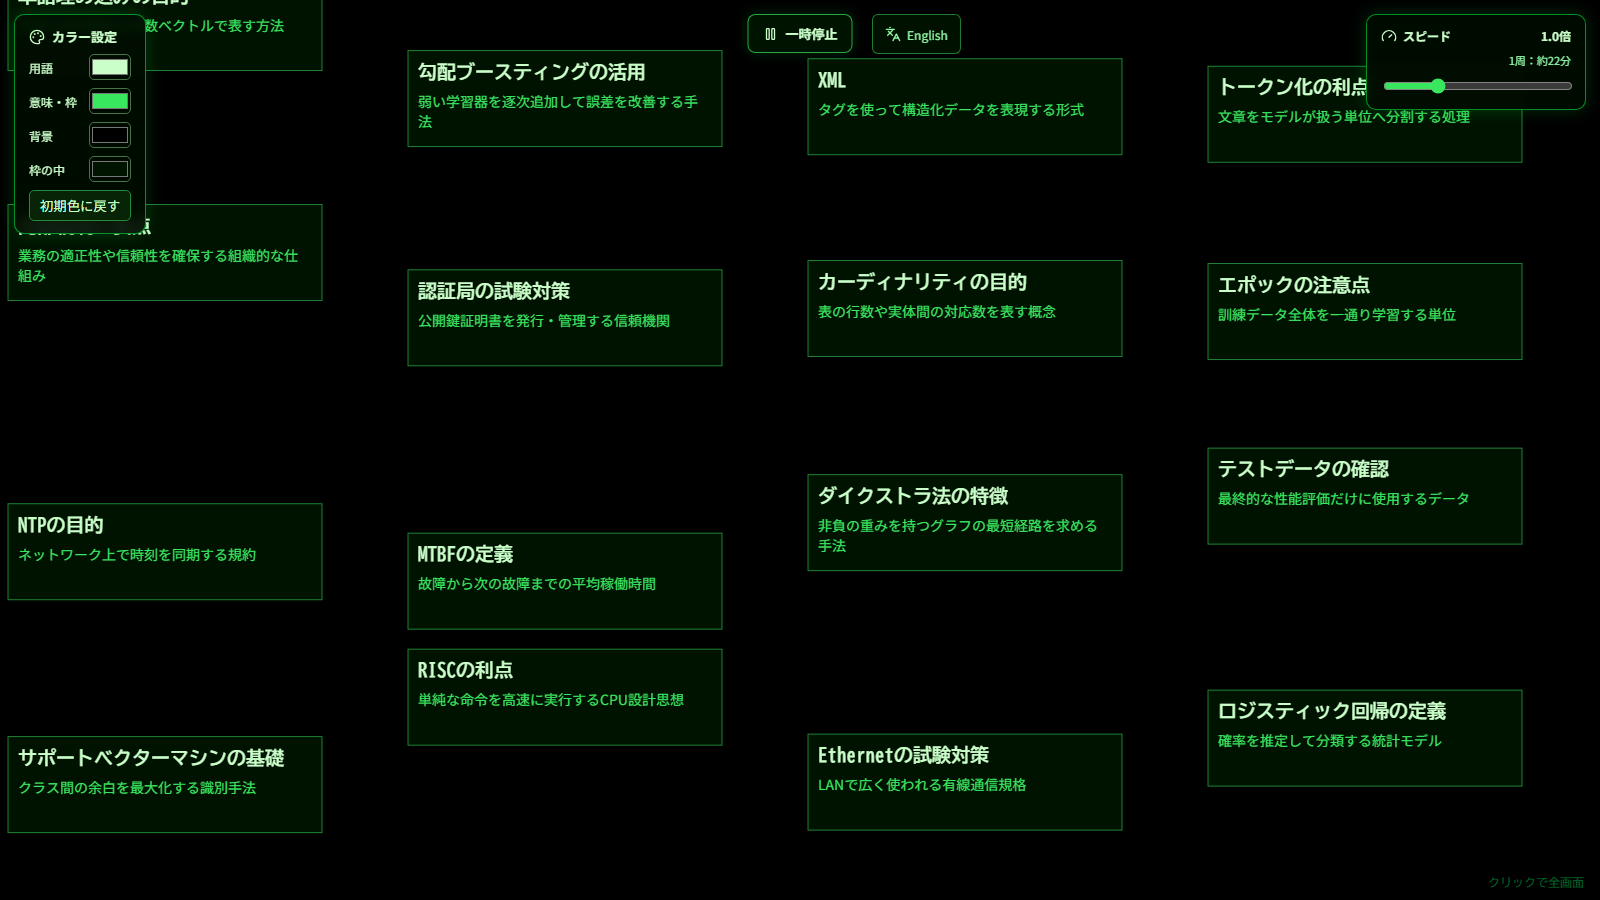
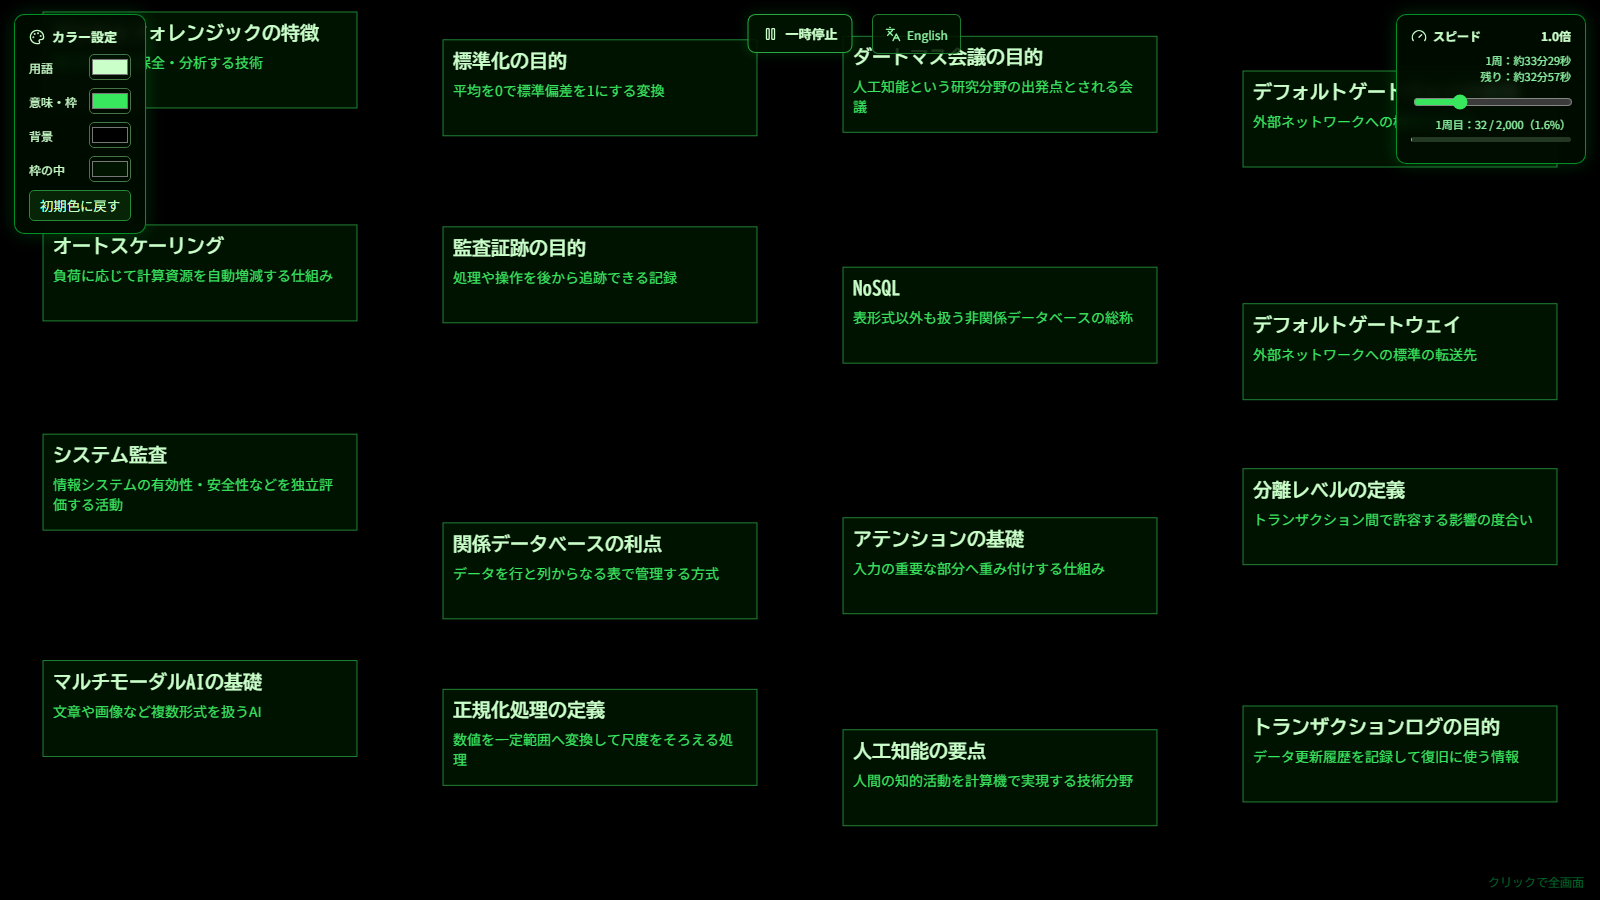
Calculate cycle time from viewport and lane count

diff --git a/index_en.html b/index_en.html
@@ -272,7 +272,10 @@
     <button class="pause-button" id="pauseButton" type="button"><svg class="lucide" viewBox="0 0 24 24" aria-hidden="true"><rect x="14" y="4" width="4" height="16" rx="1"/><rect x="6" y="4" width="4" height="16" rx="1"/></svg><span id="pauseLabel">Pause</span></button>
     <div class="speed-panel" id="speedPanel">
       <label for="speedControl"><span><svg class="lucide" viewBox="0 0 24 24" aria-hidden="true"><path d="m12 14 4-4"/><path d="M3.34 19a10 10 0 1 1 17.32 0"/></svg>Speed</span><span id="speedValue">1.0x</span></label>
-      <div class="cycle-time" id="cycleTime">One cycle: about 22 min</div>
+      <div class="cycle-time">
+        <div id="cycleTime">One cycle: calculating</div>
+        <div id="remainingTime">Remaining: calculating</div>
+      </div>
       <input id="speedControl" type="range" min="0.25" max="3" step="0.25" value="1" />
       <div class="cycle-progress" aria-live="polite">
         <div class="progress-label" id="progressLabel">Progress 0 / 2,000 (0.0%)</div>
@@ -304,6 +307,7 @@
       const laneWidth = 340;
       const cardHeight = 96;
       const cardsPerLane = 4;
+      const frameIntervalMs = 30;
       let lanes = [];
       let isPaused = false;
       let speedMultiplier = 1;
@@ -312,12 +316,55 @@
       let cycleNumber = 0;
       let cycleIssued = 0;
 
+      function formatDuration(totalSeconds) {
+        const roundedSeconds = Math.max(0, Math.round(totalSeconds));
+        const hours = Math.floor(roundedSeconds / 3600);
+        const minutes = Math.floor((roundedSeconds % 3600) / 60);
+        const seconds = roundedSeconds % 60;
+        if (hours > 0) {
+          return minutes > 0
+            ? `about ${hours} hr ${minutes} min`
+            : `about ${hours} hr`;
+        }
+        if (minutes > 0) {
+          return seconds > 0
+            ? `about ${minutes} min ${seconds} sec`
+            : `about ${minutes} min`;
+        }
+        return `about ${seconds} sec`;
+      }
+
+      function getItemsPerSecond() {
+        const laneCount = Math.max(1, Math.floor(canvas.width / laneWidth));
+        const spacing = Math.max(cardHeight + 28, canvas.height / cardsPerLane);
+        let totalLaneSpeed = 0;
+        for (let index = 0; index < laneCount; index++) {
+          totalLaneSpeed += 1.5 + (index % 3) * 0.24;
+        }
+        return (
+          (totalLaneSpeed * speedMultiplier) /
+          (spacing * (frameIntervalMs / 1000))
+        );
+      }
+
+      function updateTiming() {
+        const itemsPerSecond = getItemsPerSecond();
+        const cycleSeconds = allTerms.length / itemsPerSecond;
+        const remainingItems = Math.max(0, allTerms.length - cycleIssued);
+        const remainingSeconds = remainingItems / itemsPerSecond;
+        document.getElementById("cycleTime").textContent =
+          `One cycle: ${formatDuration(cycleSeconds)}`;
+        document.getElementById("remainingTime").textContent =
+          `Remaining: ${formatDuration(remainingSeconds)}`;
+      }
+
       function updateProgress() {
         const ratio = cycleIssued / allTerms.length;
         const percent = (ratio * 100).toFixed(1);
         document.getElementById("progressLabel").textContent =
           `Cycle ${cycleNumber}: ${cycleIssued.toLocaleString("en-US")} / ${allTerms.length.toLocaleString("en-US")} (${percent}%)`;
         document.getElementById("progressBar").style.width = `${ratio * 100}%`;
+        updateTiming();
       }
 
       function nextTerm() {
@@ -451,7 +498,8 @@
         }
         ctx.restore();
       }
-      setInterval(draw, 30);
+      draw();
+      setInterval(draw, frameIntervalMs);
 
       const colorControls = {
         word: document.getElementById("wordColor"),
@@ -485,26 +533,10 @@
 
       const speedControl = document.getElementById("speedControl");
       const speedValue = document.getElementById("speedValue");
-      const cycleTime = document.getElementById("cycleTime");
-      function formatCycleTime(multiplier) {
-        const totalMinutes = 22 / multiplier;
-        if (totalMinutes >= 60) {
-          const hours = Math.floor(totalMinutes / 60);
-          const minutes = Math.round(totalMinutes % 60);
-          return minutes === 0
-            ? `about ${hours} hr`
-            : `about ${hours} hr ${minutes} min`;
-        }
-        const minutes = Math.floor(totalMinutes);
-        const seconds = Math.round((totalMinutes - minutes) * 60);
-        return seconds === 0
-          ? `about ${minutes} min`
-          : `about ${minutes} min ${seconds} sec`;
-      }
       speedControl.addEventListener("input", () => {
         speedMultiplier = Number(speedControl.value);
         speedValue.textContent = `${speedMultiplier.toFixed(2).replace(/0$/, "")}x`;
-        cycleTime.textContent = `One cycle: ${formatCycleTime(speedMultiplier)}`;
+        updateTiming();
       });
 
       document.addEventListener("click", (event) => {

diff --git a/index.html b/index.html
@@ -272,7 +272,10 @@
     <button class="pause-button" id="pauseButton" type="button"><svg class="lucide" viewBox="0 0 24 24" aria-hidden="true"><rect x="14" y="4" width="4" height="16" rx="1"/><rect x="6" y="4" width="4" height="16" rx="1"/></svg><span id="pauseLabel">一時停止</span></button>
     <div class="speed-panel" id="speedPanel">
       <label for="speedControl"><span><svg class="lucide" viewBox="0 0 24 24" aria-hidden="true"><path d="m12 14 4-4"/><path d="M3.34 19a10 10 0 1 1 17.32 0"/></svg>スピード</span><span id="speedValue">1.0倍</span></label>
-      <div class="cycle-time" id="cycleTime">1周：約22分</div>
+      <div class="cycle-time">
+        <div id="cycleTime">1周：計算中</div>
+        <div id="remainingTime">残り：計算中</div>
+      </div>
       <input id="speedControl" type="range" min="0.25" max="3" step="0.25" value="1" />
       <div class="cycle-progress" aria-live="polite">
         <div class="progress-label" id="progressLabel">進捗 0 / 2,000（0.0%）</div>
@@ -382,6 +385,7 @@
       const laneWidth = 340;
       const cardHeight = 96;
       const cardsPerLane = 4;
+      const frameIntervalMs = 30;
       let lanes = [];
       let isPaused = false;
       let speedMultiplier = 1;
@@ -390,12 +394,51 @@
       let cycleNumber = 0;
       let cycleIssued = 0;
 
+      function formatDuration(totalSeconds) {
+        const roundedSeconds = Math.max(0, Math.round(totalSeconds));
+        const hours = Math.floor(roundedSeconds / 3600);
+        const minutes = Math.floor((roundedSeconds % 3600) / 60);
+        const seconds = roundedSeconds % 60;
+        if (hours > 0) {
+          return minutes > 0 ? `約${hours}時間${minutes}分` : `約${hours}時間`;
+        }
+        if (minutes > 0) {
+          return seconds > 0 ? `約${minutes}分${seconds}秒` : `約${minutes}分`;
+        }
+        return `約${seconds}秒`;
+      }
+
+      function getItemsPerSecond() {
+        const laneCount = Math.max(1, Math.floor(canvas.width / laneWidth));
+        const spacing = Math.max(cardHeight + 28, canvas.height / cardsPerLane);
+        let totalLaneSpeed = 0;
+        for (let index = 0; index < laneCount; index++) {
+          totalLaneSpeed += 1.5 + (index % 3) * 0.24;
+        }
+        return (
+          (totalLaneSpeed * speedMultiplier) /
+          (spacing * (frameIntervalMs / 1000))
+        );
+      }
+
+      function updateTiming() {
+        const itemsPerSecond = getItemsPerSecond();
+        const cycleSeconds = allTerms.length / itemsPerSecond;
+        const remainingItems = Math.max(0, allTerms.length - cycleIssued);
+        const remainingSeconds = remainingItems / itemsPerSecond;
+        document.getElementById("cycleTime").textContent =
+          `1周：${formatDuration(cycleSeconds)}`;
+        document.getElementById("remainingTime").textContent =
+          `残り：${formatDuration(remainingSeconds)}`;
+      }
+
       function updateProgress() {
         const ratio = cycleIssued / allTerms.length;
         const percent = (ratio * 100).toFixed(1);
         document.getElementById("progressLabel").textContent =
           `${cycleNumber}周目：${cycleIssued.toLocaleString("ja-JP")} / ${allTerms.length.toLocaleString("ja-JP")}（${percent}%）`;
         document.getElementById("progressBar").style.width = `${ratio * 100}%`;
+        updateTiming();
       }
 
       function nextTerm() {
@@ -516,7 +559,8 @@
         }
         ctx.restore();
       }
-      setInterval(draw, 30);
+      draw();
+      setInterval(draw, frameIntervalMs);
 
       const colorControls = {
         word: document.getElementById("wordColor"),
@@ -550,22 +594,10 @@
 
       const speedControl = document.getElementById("speedControl");
       const speedValue = document.getElementById("speedValue");
-      const cycleTime = document.getElementById("cycleTime");
-      function formatCycleTime(multiplier) {
-        const totalMinutes = 22 / multiplier;
-        if (totalMinutes >= 60) {
-          const hours = Math.floor(totalMinutes / 60);
-          const minutes = Math.round(totalMinutes % 60);
-          return minutes === 0 ? `約${hours}時間` : `約${hours}時間${minutes}分`;
-        }
-        const minutes = Math.floor(totalMinutes);
-        const seconds = Math.round((totalMinutes - minutes) * 60);
-        return seconds === 0 ? `約${minutes}分` : `約${minutes}分${seconds}秒`;
-      }
       speedControl.addEventListener("input", () => {
         speedMultiplier = Number(speedControl.value);
         speedValue.textContent = `${speedMultiplier.toFixed(2).replace(/0$/, "")}倍`;
-        cycleTime.textContent = `1周：${formatCycleTime(speedMultiplier)}`;
+        updateTiming();
       });
 
       document.addEventListener("click", (event) => {

diff --git a/USER_GUIDE_EN.md b/USER_GUIDE_EN.md
@@ -6,7 +6,7 @@ IT & AI Learning is a browser-based app for reviewing concepts from Japan's Appl
 
 ![IT & AI Learning main screen](docs/images/matrix-learning-overview-en.png)
 
-> **Items do not repeat within a cycle.** The app displays each of the 2,000 study items once before starting the next cycle. At `1.0×`, one complete cycle takes approximately 22 minutes.
+> **Items do not repeat within a cycle.** The app displays each of the 2,000 study items once before starting the next cycle. Cycle and remaining time are calculated from viewport size, lane count, card spacing, and speed.
 
 ## Contents
 
@@ -67,7 +67,9 @@ Click a color swatch and choose a color. Select **Restore Defaults** to return t
 - Maximum: `3.0×`
 - Step: `0.25×`
 
-The selected multiplier appears above the slider and takes effect immediately. The panel also estimates the time needed to show all 2,000 items at the selected speed. For example, it shows approximately 22 minutes at `1.0×` and approximately 11 minutes at `2.0×`.
+The selected multiplier appears above the slider and takes effect immediately. The panel displays both the estimated duration of a complete 2,000-item cycle and the remaining time from the current position. The calculation uses the number of lanes that fit the screen, vertical card spacing, per-lane movement speed, selected multiplier, and issued item count.
+
+Time therefore varies by device even at `1.0×`. As a guide, a `1600×900` viewport takes about 33 minutes per cycle, while a one-lane `390×844` smartphone takes about 2 hours 21 minutes. The estimate is recalculated after a speed change, rotation, or resize.
 
 Below the slider, a progress bar shows the current cycle number, issued item count, and percentage of all 2,000 items—for example, `Cycle 1: 840 / 2,000 (42.0%)`. After all items have appeared, the next cycle starts from the beginning with a newly shuffled order.
 
@@ -102,7 +104,7 @@ At widths of 600px or less, the color and speed panels become compact, while Pau
 | Law, ethics & management | 150 |
 | **Total** | **2,000** |
 
-After all 2,000 items have appeared, the app reshuffles the deck and begins a new cycle. At `1.0×`, a complete cycle takes approximately 22 minutes.
+After all 2,000 items have appeared, the app reshuffles the deck and begins a new cycle. Cycle and remaining time update for the current viewport and speed.
 
 ## Publishing with GitHub Pages
 

diff --git a/USER_GUIDE.md b/USER_GUIDE.md
@@ -6,7 +6,7 @@
 
 ![マトリックス学習のメイン画面](docs/images/matrix-learning-overview.png)
 
-> **学習項目は1周の中で重複しません。** 全2,000件を一度ずつ表示してから次の周へ進みます。速度を`1.0倍`に設定した場合、1周にかかる時間は約22分です。
+> **学習項目は1周の中で重複しません。** 全2,000件を一度ずつ表示してから次の周へ進みます。1周時間と残り時間は、画面サイズ・列数・カード間隔・速度から自動計算されます。
 
 ## 目次
 
@@ -67,7 +67,9 @@
 
 倍率はスライダーの右上に表示され、変更はすぐカードの移動へ反映されます。
 
-スライダーの上には、選択中の速度で2,000項目を一周するために必要な時間も表示されます。`1.0倍`では「1周：約22分」、`2.0倍`では「1周：約11分」のように自動更新されます。
+スライダーの上には、選択中の速度で2,000項目を一周する時間と、現在位置から終了までの残り時間を表示します。計算には、画面に収まる列数、縦方向のカード間隔、列ごとの移動速度、選択中の速度倍率、表示済み件数を使用します。
+
+同じ`1.0倍`でも画面サイズによって時間は変わります。目安として、`1600×900`では1周約33分、1列になる`390×844`のスマートフォンでは約2時間21分です。速度を変更した場合や画面を回転・リサイズした場合は、その場で再計算されます。
 
 スライダーの下には、現在の周回番号、表示済み件数、全2,000件に対する割合を進捗バーで表示します。例：`1周目：840 / 2,000（42.0%）`。2,000件を出し切ると、次の周回へ切り替わって進捗が先頭から始まります。
 
@@ -102,7 +104,7 @@
 | 法務・倫理・マネジメント | 150 |
 | **合計** | **2,000** |
 
-2,000件をすべて表示すると、再度シャッフルして次の周回を開始します。速度を`1.0倍`に設定した場合、1周にかかる時間は約22分です。
+2,000件をすべて表示すると、再度シャッフルして次の周回を開始します。周回時間と残り時間は、現在の画面サイズと速度に合わせて更新されます。
 
 ## GitHub Pagesで公開する
 

diff --git a/PROMPT_EN.md b/PROMPT_EN.md
@@ -61,7 +61,9 @@ Format every item as “Term: concise and accurate definition.” Cover the same
 4. Upper-right: speed panel
    - Slider from 0.25x to 3.0x in 0.25x steps
    - Display the selected multiplier.
-   - Estimate and display the cycle duration using 1.0x = approximately 22 minutes.
+   - Do not use a fixed baseline duration. Calculate items per second from lane count, card spacing, per-lane speed, frame interval, and selected multiplier, then estimate the duration of all 2,000 items.
+   - Calculate remaining items from current progress and display the estimated time until the current cycle ends.
+   - Recalculate timing after speed changes, rotation, and resize.
    - Display cycle number, issued item count, and percentage, such as “Cycle 1: 840 / 2,000 (42.0%).”
    - Include a visual progress bar.
    - After 2,000 items, increment the cycle number and restart progress with a newly shuffled order.

diff --git a/README_EN.md b/README_EN.md
@@ -9,7 +9,7 @@
 </p>
 
 <p align="center">
-  <strong>2,000 items</strong> · <strong>No repeats per cycle</strong> · <strong>About 22 minutes per cycle at 1.0×</strong>
+  <strong>2,000 items</strong> · <strong>No repeats per cycle</strong> · <strong>Device-aware cycle and remaining time</strong>
 </p>
 
 <p align="center">

diff --git a/README.md b/README.md
@@ -9,7 +9,7 @@
 </p>
 
 <p align="center">
-  <strong>2,000項目</strong> ・ <strong>重複なし</strong> ・ <strong>1.0倍で約22分／周</strong>
+  <strong>2,000項目</strong> ・ <strong>重複なし</strong> ・ <strong>端末に合わせた周回時間・残り時間</strong>
 </p>
 
 <p align="center">
